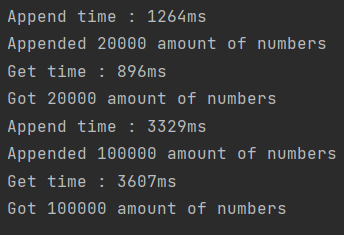
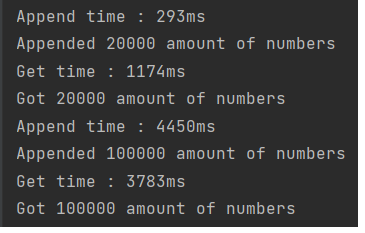
Hazelcast List fix

diff --git a/Hazelcast/src/main/java/org/hazelcast_vs_oracledb/hazelcastManager.java b/Hazelcast/src/main/java/org/hazelcast_vs_oracledb/hazelcastManager.java
@@ -1,24 +1,27 @@
 package org.hazelcast_vs_oracledb;
 
 import com.hazelcast.client.HazelcastClient;
+import com.hazelcast.collection.IList;
+import com.hazelcast.core.Hazelcast;
 import com.hazelcast.core.HazelcastInstance;
 import java.util.concurrent.ThreadLocalRandom;
 import java.util.List;
+import java.util.Random;
 
 public class hazelcastManager {
     //defining number for getter
     private int number;
-    //create list and client for every method
+    //create list and Instance for every method
     private HazelcastInstance hz;
-    private List list;
+    private IList<Object> list;
 
-    private int randomNum;
+    private Random random = new Random();
 
     public long dataAppender(int number){
 
         this.number = number;
-        //defining new client and list for attempt
-        this.hz = HazelcastClient.newHazelcastClient();
+        //defining new Instance and list for attempt
+        this.hz = Hazelcast.newHazelcastInstance();
         this.list = hz.getList("my-distributed-list1");
         //initial time of process
         long initialT = System.currentTimeMillis();
@@ -31,26 +34,26 @@ public class hazelcastManager {
         long lastT = System.currentTimeMillis();
 
 
-        hz.shutdown();
+
         return lastT - initialT;
     }
     public long dataGetter(int number){
-        this.randomNum = ThreadLocalRandom.current().nextInt(1, 1000 + 1);
+
         this.number = number;
-        //defining new client and list for attempt
-        this.hz = HazelcastClient.newHazelcastClient();
+        //defining new Instance and list for attempt
+        this.hz = Hazelcast.newHazelcastInstance();
         this.list = hz.getList("my-distributed-list1");
         //initial time of process
         long initialT = System.currentTimeMillis();
 
         for(int i = 0; i < number; i++){
-            list.get(randomNum);
+            list.get(number-1);
 
         }
         //end time of process
         long lastT = System.currentTimeMillis();
 
-        hz.shutdown();
+
         return lastT - initialT;
 
     }
